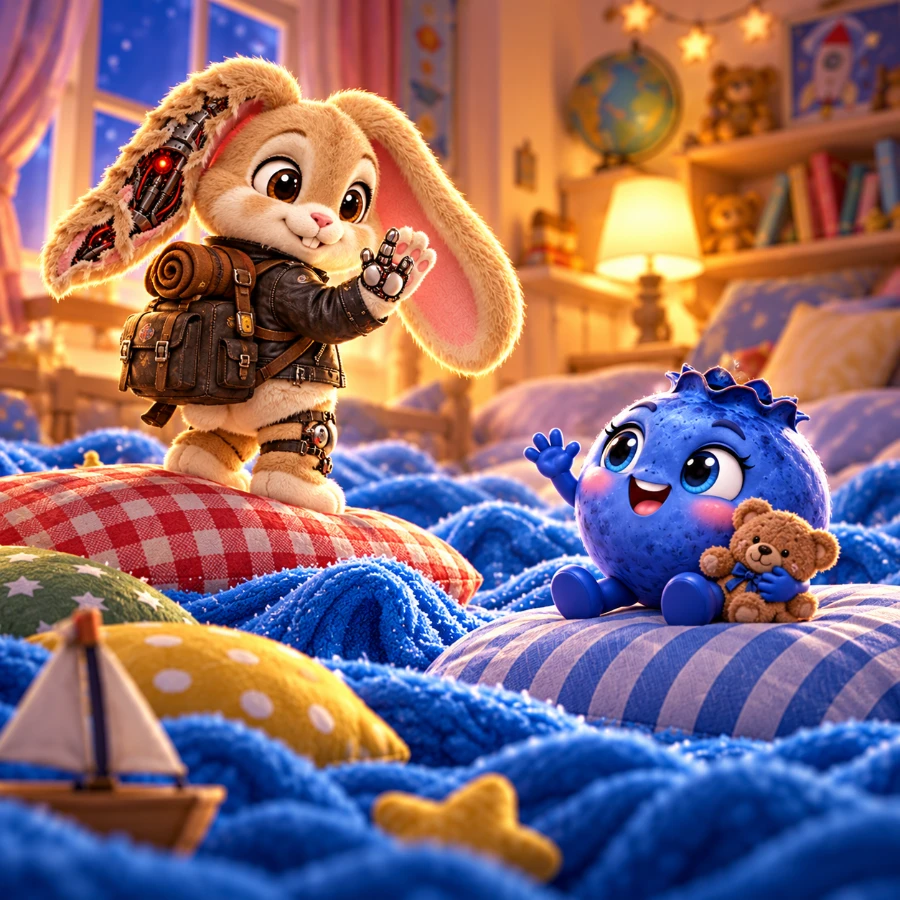
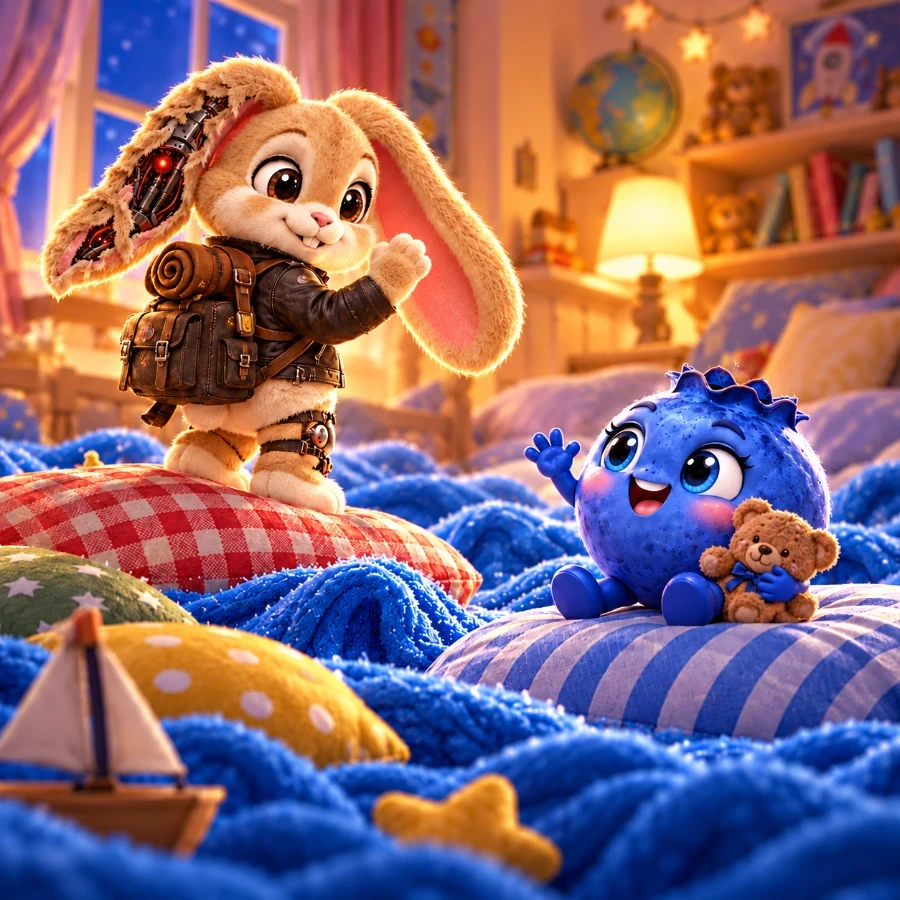
update

diff --git a/cylinderview.html b/cylinderview.html
@@ -81,6 +81,25 @@ html,body { height:100%; margin:0; overflow:hidden; font-family:Inter,ui-sans-se
 .brand small,.tips { color:#a5b5cc; font-size:12px; line-height:1.5; }
 .brand small { display:block; margin-top:4px; }
 .tips { text-align:right; }
+/* Rechts oben: Play-Button + (ausgeblendeter) Hinweistext */
+.top-right { display:flex; flex-direction:column; align-items:flex-end; gap:10px; }
+.ss-button {
+  pointer-events:auto;
+  cursor:pointer;
+  display:inline-flex; align-items:center; justify-content:center;
+  width:40px; height:40px; padding:0;
+  border-radius:50%;
+  border:1px solid #37445e;
+  background:#111a2de8;
+  color:#c6d4ea;
+  box-shadow:0 8px 28px #0005;
+  backdrop-filter:blur(12px);
+  -webkit-user-drag:none; user-select:none;
+  transition:background .15s ease, color .15s ease, transform .08s ease;
+}
+.ss-button:hover { background:#1c2942; color:#ffffff; }
+.ss-button:active { transform:scale(.93); }
+.ss-button svg { display:block; margin-left:1px; }
  .curvature { position:fixed; z-index:12; left:50%; bottom:62px; transform:translateX(-50%); width:min(440px,calc(100vw - 32px)); display:flex; flex-direction:column; gap:9px; padding:13px 16px; border:1px solid #42516b; border-radius:15px; background:#111a2df0; box-shadow:0 10px 30px #0006; backdrop-filter:blur(14px); user-select:none; }
 .curvature-heading { display:flex; align-items:center; justify-content:space-between; gap:12px; font-size:13px; font-weight:650; }
 .curvature-output { font-size:12px; color:#a7d8ff; font-variant-numeric:tabular-nums; }
@@ -94,11 +113,28 @@ html,body { height:100%; margin:0; overflow:hidden; font-family:Inter,ui-sans-se
 .curvature, #stats, .tips, .brand small {
   display: none;
 }
+
+/* Screensaver: Chrome blendet weich aus */
+.topbar { transition: opacity 1.2s ease; }
+body.screensaver .topbar { opacity: 0; }
+/* Während des Screensavers soll der Play-Button keine Klicks abfangen,
+   damit jeder Klick zuverlässig nur den Screensaver beendet. */
+body.screensaver .ss-button { pointer-events: none; }
 </style>
 </head>
 <body>
 <div id="viewport" aria-label="Unendlich wiederholtes App-Raster"><div id="ambient" aria-hidden="true"><div class="ambient-glow game"></div><div class="ambient-glow tool"></div><div class="ambient-glow misc"></div></div><div id="layer"></div></div>
-<header class="topbar"><div class="brand"><strong>∞ der Boiler Room</strong><small>Dieselben Apps wiederholen sich endlos in jede Richtung.</small></div><div class="tips">Ziehen: frei bewegen<br>Mausrad: sanftes Ausrollen · Shift: horizontal<br>Trackpad: beide Achsen · Center-Snap<br>Neon & Ambient Light: Orange = Game · Cyan = Tool · Grün = Misc</div></header>
+<header class="topbar">
+  <div class="brand">
+    <strong>∞ der Boiler Room</strong>
+    <button id="startScreensaver" class="ss-button" type="button" title="Bildschirmschoner starten" aria-label="Bildschirmschoner starten">
+      <svg width="14" height="14" viewBox="0 0 24 24" aria-hidden="true" focusable="false"><path d="M8 5v14l11-7z" fill="currentColor"/></svg>
+    </button>
+  </div>
+  <div class="top-right">
+    <div class="tips">Ziehen: frei bewegen<br>Mausrad: sanftes Ausrollen · Shift: horizontal<br>Trackpad: beide Achsen · Center-Snap<br>Neon & Ambient Light: Orange = Game · Cyan = Tool · Grün = Misc</div>
+  </div>
+</header>
 <section class="curvature" aria-label="Wölbung einstellen">
   <div class="curvature-heading"><label for="curve">Zylinder-Wölbung</label><output id="curveValue" class="curvature-output" for="curve">Flach · 0 %</output></div>
   <input type="range" id="curve" min="-100" max="100" step="1" value="0" aria-label="Wölbung: negative Werte nach hinten, positive Werte zum Betrachter">
@@ -483,9 +519,11 @@ layer.addEventListener('click', e => {
     suppressNextClick = false;
     return;
   }
-  // Wenn der Klick auf eine Card gefallen ist, nach dem Aufräumen
-  // suppressNextClick zurücksetzen (falls ein späterer Klick kommt).
-  // Kein preventDefault – der Link darf navigieren.
+  // Klick, der den Screensaver beendet hat, nicht weiterreichen
+  if (performance.now() - ssEndedAt < 400) {
+    e.preventDefault();
+    e.stopPropagation();
+  }
 });
 
 // Natives Drag-and-Drop (Link-Schatten) und Textauswahl beim Ziehen unterbinden.
@@ -495,6 +533,147 @@ viewport.addEventListener('selectstart', e => e.preventDefault());
 
 window.addEventListener('resize', () => { cancelSnap(); requestRender(); if (!dragging && !velocityX && !velocityY) beginSnap(); });
 panX = 48; panY = 100;
+
+// ===== Screensaver / Idle-Modus =====
+const IDLE_TIMEOUT      = 20000;
+const SS_ZOOM_MIN       = 1.0;
+const SS_ZOOM_MAX       = 1.5;
+const prefersReducedMotion = matchMedia('(prefers-reduced-motion: reduce)').matches;
+
+let screensaverActive   = false;
+let idleTimer           = 0;
+let ssFrame             = 0;
+let ssVelX = 0, ssVelY = 0;
+let ssTargetVelX = 0, ssTargetVelY = 0;
+let ssTargetZoom        = 1;
+let ssTargetCurvature   = 1;
+let zoom                = 1;          // aktuelle Zoom-Stufe
+let preSsCurvature      = 1;          // Wölbung vor dem Screensaver
+let ssNextChangeTime    = 0;
+let ssEndedAt           = 0;          // Zeitstempel für Klick-Suppression
+
+function applyZoom() {
+  layer.style.transform = zoom === 1 ? '' : `scale(${zoom})`;
+}
+
+function resetIdleTimer() {
+  clearTimeout(idleTimer);
+  if (prefersReducedMotion) return;
+  idleTimer = setTimeout(startScreensaver, IDLE_TIMEOUT);
+}
+
+function randomDirection() {
+  const angle = Math.random() * Math.PI * 2;
+  const speed = 1.2 + Math.random() * 2.2;  // px / Frame
+  ssTargetVelX = Math.cos(angle) * speed;
+  ssTargetVelY = Math.sin(angle) * speed;
+}
+
+function startScreensaver() {
+  if (screensaverActive || dragging) { resetIdleTimer(); return; }
+  screensaverActive = true;
+  clearTimeout(idleTimer);
+  document.body.classList.add('screensaver');
+
+  cancelSnap();
+  velocityX = velocityY = 0;
+  if (motionFrame) { cancelAnimationFrame(motionFrame); motionFrame = 0; }
+  previousFrameTime = 0;
+
+  preSsCurvature = curvature;
+
+  // Startzustand: sanft aus dem Stand beschleunigen
+  ssVelX = ssVelY = 0;
+  randomDirection();
+  ssTargetZoom      = SS_ZOOM_MIN + Math.random() * (SS_ZOOM_MAX - SS_ZOOM_MIN);
+  ssTargetCurvature = (Math.random() * 2 - 1) * 0.8;
+  ssNextChangeTime  = performance.now() + 2000 + Math.random() * 3000;
+
+  ssFrame = requestAnimationFrame(screensaverStep);
+}
+
+function screensaverStep() {
+  if (!screensaverActive) { ssFrame = 0; return; }
+
+  const now = performance.now();
+
+  // Richtung weich in Zielgeschwindigkeit überblenden
+  ssVelX += (ssTargetVelX - ssVelX) * 0.03;
+  ssVelY += (ssTargetVelY - ssVelY) * 0.03;
+  panX += ssVelX;
+  panY += ssVelY;
+
+  // Zoom & Wölbung weich nachführen
+  zoom      += (ssTargetZoom      - zoom)      * 0.025;
+  curvature += (ssTargetCurvature - curvature) * 0.015;
+
+  // Gelegentliche Änderungen
+  if (now > ssNextChangeTime) {
+    const roll = Math.random();
+    if (roll < 0.45) {
+      randomDirection();                                    // Richtung
+      ssNextChangeTime = now + 2000 + Math.random() * 5000;
+    } else if (roll < 0.75) {
+      ssTargetCurvature = (Math.random() * 2 - 1) * 0.8;    // Wölbung
+      ssNextChangeTime  = now + 3000 + Math.random() * 5000;
+    } else {
+      ssTargetZoom      = SS_ZOOM_MIN + Math.random() * (SS_ZOOM_MAX - SS_ZOOM_MIN);
+      ssNextChangeTime  = now + 4000 + Math.random() * 5000;
+    }
+  }
+
+  applyZoom();
+  requestRender();
+  ssFrame = requestAnimationFrame(screensaverStep);
+}
+
+function endScreensaver() {
+  if (!screensaverActive) return;
+  screensaverActive = false;
+  document.body.classList.remove('screensaver');
+  if (ssFrame) { cancelAnimationFrame(ssFrame); ssFrame = 0; }
+  ssEndedAt = performance.now();
+
+  // Zoom & Wölbung in ~250 ms zurückführen, ohne Interaktion zu blockieren
+  const restore = () => {
+    if (screensaverActive) return;
+    zoom      += (1 - zoom)                    * 0.2;
+    curvature += (preSsCurvature - curvature) * 0.2;
+    const zDone = Math.abs(zoom - 1) < 0.005;
+    const cDone = Math.abs(curvature - preSsCurvature) < 0.005;
+    if (zDone) zoom = 1;
+    if (cDone) curvature = preSsCurvature;
+    applyZoom();
+    requestRender();
+    if (!zDone || !cDone) requestAnimationFrame(restore);
+  };
+  requestAnimationFrame(restore);
+}
+
+function onUserActivity() {
+  if (screensaverActive) endScreensaver();
+  resetIdleTimer();
+}
+
+// Jede relevante Eingabe beendet den Screensaver und startet den Idle-Timer neu.
+// 'click' ist zusätzlich enthalten, damit ein beliebiger Klick den
+// Screensaver zuverlässig beendet.
+[ 'wheel', 'keydown', 'touchstart', 'click']
+  .forEach(evt => window.addEventListener(evt, onUserActivity, { capture: true, passive: true }));
+
+// Play-Button oben rechts: startet den Screensaver sofort.
+const startScreensaverBtn = document.getElementById('startScreensaver');
+if (startScreensaverBtn) {
+  startScreensaverBtn.addEventListener('click', e => {
+    e.preventDefault();
+    e.stopPropagation();
+    if (!screensaverActive) startScreensaver();
+  });
+}
+
+// Idle-Timer initial starten
+resetIdleTimer();
+
 requestRender();
 </script>
 </body>

diff --git a/indiana-kuschel.html b/indiana-kuschel.html
@@ -1,0 +1,91 @@
+Gute-Nacht-Geschichte: Blaubeere, der Kuschelhase und der gestohlene Traumstern
+
+Es war eine Nacht, in der die Sterne besonders leise funkelten. Blaubeere lag schon im Bett, der Kuschelhase stand wie immer wachsam neben dem Kissen, und Schnuffels, der weiße Kuschelhai, saß auf dem Bettpfosten.
+
+„System meldet: Alle Kinder schlafen bald“, sagte der Kuschelhase mit seiner tiefen, sanften Roboterstimme. „Doch irgendetwas stimmt nicht. Die Träume kommen heute nicht.“
+
+Blaubeere setzte sich auf. „Wieder der schlaflose Kissenmann?“
+
+„Wahrscheinlich“, sagte der Kuschelhase. „Er hat den Traumstern gestohlen. Ohne ihn können die Kinder nicht richtig träumen. Die Spur führt in den Dschungel, zum vergessenen Tempel der leisen Träume.“
+
+Schnuffels sprang vom Bettpfosten. „Schnuffels will mitkommen.“
+
+Der Kuschelhase öffnete eine kleine Klappe an seinem Bauch. Darin glühte ein grün leuchtender Zeitstein. „Schnellreise aktiviert. Ziel: Dschungel. Ankunft: kurz vor Mitternacht.“
+
+Und schon wirbelte die Nacht um sie herum. Als Blaubeere die Augen wieder öffnete, standen sie mitten im Dschungel. Über ihnen raschelten riesige Blätter, überall zirpten Insekten, und zwischen den Bäumen lag ein alter Tempel aus grünem Stein.
+
+Schnuffels packte eine Liane. „Schnuffels fliegt. Aaah-eeh-aaah-eeh-aaah!.“ Und schon schwang er sich vorwärts, von Liane zu Liane, wie ein weißer, sehr mutiger Kuschelhai das eben tut. „Da unten ist etwas!“
+
+Der Kuschelhase scannte den Boden. „Falle entdeckt. Druckplatten. Bitte nur auf die Steine mit dem Mondzeichen treten.“
+
+Blaubeere schaute genau hin. „Da! Und da!“
+
+Sie hüpften von Stein zu Stein. Schnuffels landete auf einem falschen Stein, und sofort schossen kleine Pfeile aus der Wand. Der Kuschelhase stellte sich davor. Pling, pling, pling - prallten die Pfeile an seinem flauschigen, aber stabilen Panzer ab.
+
+„Danke, Kuschelhase“, sagte Blaubeere.
+
+„Aufgabe: Beschützen“, antwortete er.
+
+Am Tempeltor angekommen war ein Rätsel in den Stein geritzt:
+
+„Ich bin unsichtbar, doch ich trage dich fort.
+Ich komme im Schlaf an den schönsten Ort.
+Was bin ich?“
+
+Blaubeere dachte nach. „Ein Traum?“
+
+Das Tor blieb zu.
+
+Schnuffels beschnupperte die Inschrift. „Schnuffels sieht: Mond. Kleiner Mond. Drücken.“
+
+Und tatsächlich: Neben dem Rätsel war ein kleiner Mond eingemeißelt. Blaubeere drückte darauf. Das Tor öffnete sich knarrend.
+
+„Schnuffels, du bist manchmal richtig clever“, sagte Blaubeere.
+
+„Schnuffel klug“, sagte Schnuffels bescheiden. „Und der stärkste.“
+
+Im Tempel war es kühl. Überall lagen alte Kissen, die aussahen wie schlafende Steine. In der Mitte stand ein leeres Podest. Darüber schwebte eine dunkle Wolke: der schlaflose Kissenmann.
+
+Er verwandelte sich gerade in eine große, flauschige Bettdecke. „Ihr kommt zu spät! Der Traumstern ist mein! Keine Träume mehr für Kinder! Dann sind alle so wach wie ich!“
+
+„Das ist gemein“, sagte Blaubeere. „Träume gehören den Kindern.“
+
+Der Kissenmann lachte. Da rollte plötzlich ein riesiger Stein aus einem Seitengang auf sie zu. Rumpelnd und brummend kam er näher.
+
+Der Kuschelhase rechnete blitzschnell. „Stein: groß. Fluchtweg: rechts. Ich halte ihn auf.“
+
+„Nein!“ rief Blaubeere. „Wir schaffen das zusammen.“
+
+Schnuffels schwang sich an einer Liane hoch, packte einen Hebel und zog daran. Eine Steinbrücke senkte sich herab. „Hier! Schnell!“
+
+Blaubeere, der Kuschelhase und Schnuffels rannten über die Brücke. Der Stein rollte hinter ihnen her. Der Kuschelhase pfiff dabei leise und schief die Indiana-Jones-Melodie. „Fiii-fii-fiii-fiiuuu“. Schnuffels pfiff mit, obwohl er nur „Fiiiiu!“ hinbekam.
+
+Dann krachte der Stein gegen eine Wand und blieb stecken.
+
+Der Kissenmann war wütend. Er verwandelte sich in ein Kissen, dann in einen Vorhang, dann in einen kleinen Stein. Doch der Kuschelhase hielt ihn mit seinen flauschigen Armen fest. „Umarmung aktiviert. Kein Entkommen.“
+
+Blaubeere fand den Traumstern in einer Kissenburg versteckt. Er glühte warm und golden. Sie legte ihn zurück auf das Podest. Sofort wurde der Tempel hell.
+
+Der Kissenmann wurde ganz klein und müde. „Ich… ich wollte doch nur auch mal träumen“, murmelte er.
+
+Blaubeere lächelte. „Dann wünsch dir einen Traum, der dir gut tut und dich stärkt.“
+
+Der Kissenmann gähnte. Er verwandelte sich in ein weiches, warmes Kopfkissen und schlief ein. Zum ersten Mal seit langer Zeit.
+
+Der Traumstern funkelte. Über dem Dschungel breitete sich ein leises Leuchten aus, und in der ganzen Welt kuschelten sich die Kinder in ihre Betten. Die Träume kamen zurück.
+
+Schnuffels rieb sich die Augen. „Schnuffels müüüüde..“
+
+Der Kuschelhase nickte. „Mission erfüllt. Rückkehr ins Bett.“
+
+Wieder wirbelte die Nacht. Kurz darauf lag Blaubeere in ihrem Bett, der Traumstern funkelte durchs Fenster, und der Kuschelhase stand wachsam neben dem Kissen.
+
+Schnuffels kuschelte sich an Blaubeeres Füße. „Gute Nacht, Blaubeere. Schnuffels passt auf.“
+
+Blaubeere gähnte. „Gute Nacht, Schnuffels. Gute Nacht, Kuschelhase.“
+
+Der Kuschelhase schaltete sein Nachtlicht ein. „Schlafmodus aktiviert.“
+
+Und leise, ganz leise pfiff er noch einmal die Abenteuermelodie, bis Blaubeere die Augen schloss und von Lianen, Tempeln und einem weißen Kuschel träumte, der mutig durch den Dschungel flog.
+
+„Fiii-fii-fiii-fiiuuu“
